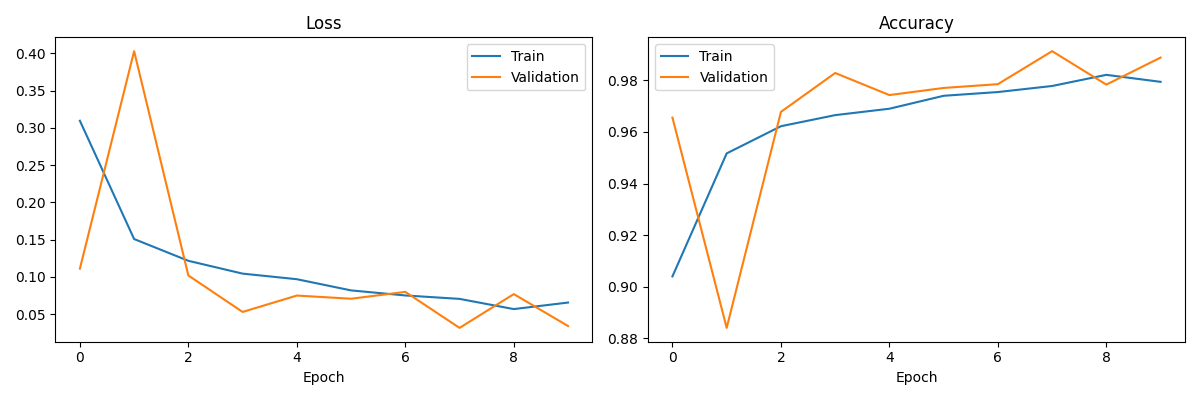
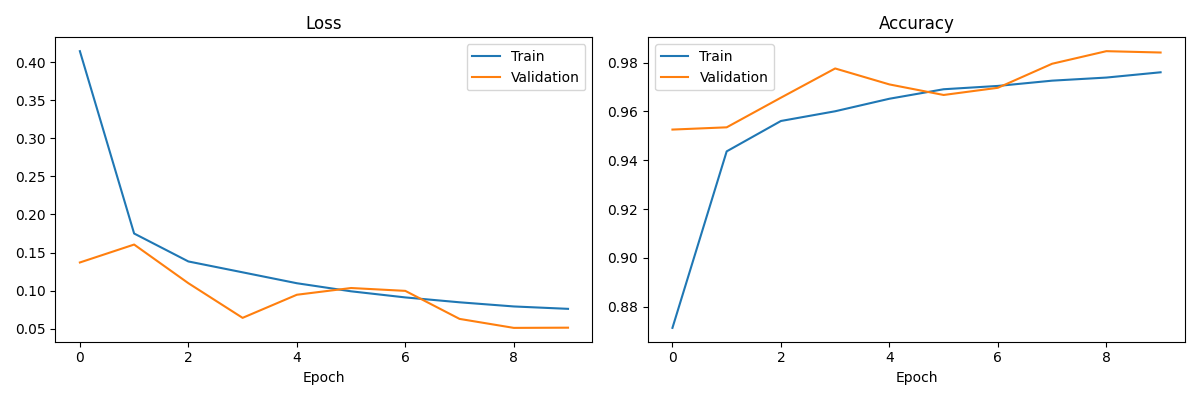
updated model

diff --git a/src/model/loader.py b/src/model/loader.py
@@ -73,6 +73,11 @@ def create_model(num_classes: int = 38) -> nn.Module:
     """
     Create a MobileNetV2 model architecture for plant disease classification
 
+    The model uses transfer learning with the following custom top layers:
+    - Global Average Pooling layer to reduce dimensionality
+    - Dense layer (128 neurons, ReLU activation) for feature extraction
+    - Softmax Output layer (38 neurons) for disease classification
+
     Args:
         num_classes: Number of output classes (default: 38)
 
@@ -81,10 +86,16 @@ def create_model(num_classes: int = 38) -> nn.Module:
     """
     model = models.mobilenet_v2(weights=None)
 
-    # Modify the classifier for our number of classes
-    num_features = model.classifier[1].in_features
+    # Replace the classifier with custom dense layers
+    # MobileNetV2 already has AdaptiveAvgPool2d before classifier (acts as Global Average Pooling)
+    # Input features from the convolutional base: 1280
     model.classifier = nn.Sequential(
-        nn.Dropout(p=0.2), nn.Linear(num_features, num_classes)
+        nn.Dropout(p=0.2),
+        nn.Linear(1280, 128),  # Dense layer with 128 neurons
+        nn.ReLU(),  # ReLU activation
+        nn.Linear(
+            128, num_classes
+        ),  # Output layer (Softmax applied during loss computation)
     )
 
     return model

diff --git a/README.md b/README.md
@@ -23,6 +23,33 @@ Key features:
 - Input validation and security checks
 - Docker support for development and production
 
+## Model Architecture
+
+The model is based on MobileNetV2 pre-trained on ImageNet, using transfer learning to adapt to plant disease classification. The pre-trained convolutional base is fine-tuned on the PlantVillage dataset.
+
+### Custom Top Layers
+
+The original MobileNetV2 classifier is replaced with custom dense layers:
+
+| Layer | Description |
+|-------|-------------|
+| Global Average Pooling | Reduces spatial dimensions from the convolutional base |
+| Dropout (0.2) | Regularization to prevent overfitting |
+| Dense (128 neurons) | Feature extraction with ReLU activation |
+| Output (38 neurons) | Softmax layer for disease classification |
+
+### Training Configuration
+
+| Parameter | Value |
+|-----------|-------|
+| Optimizer | Adam |
+| Loss Function | Categorical Cross-Entropy |
+| Learning Rate | 0.001 |
+| Input Size | 224 x 224 pixels |
+| Batch Size | 32 |
+
+This configuration enables effective learning while minimizing training time and computational cost.
+
 ## Supported Classes
 
 The model can identify diseases in the following crops:
